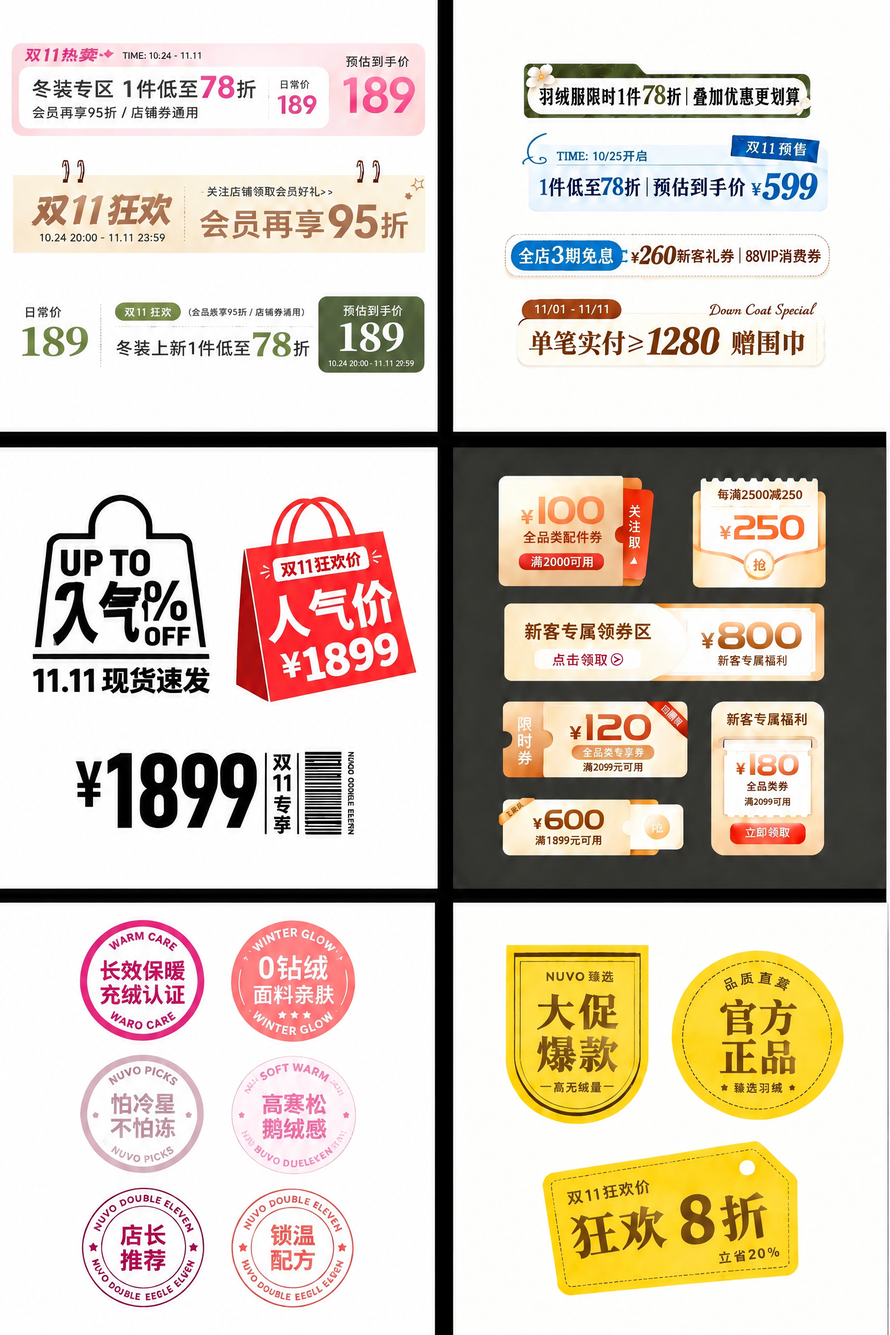
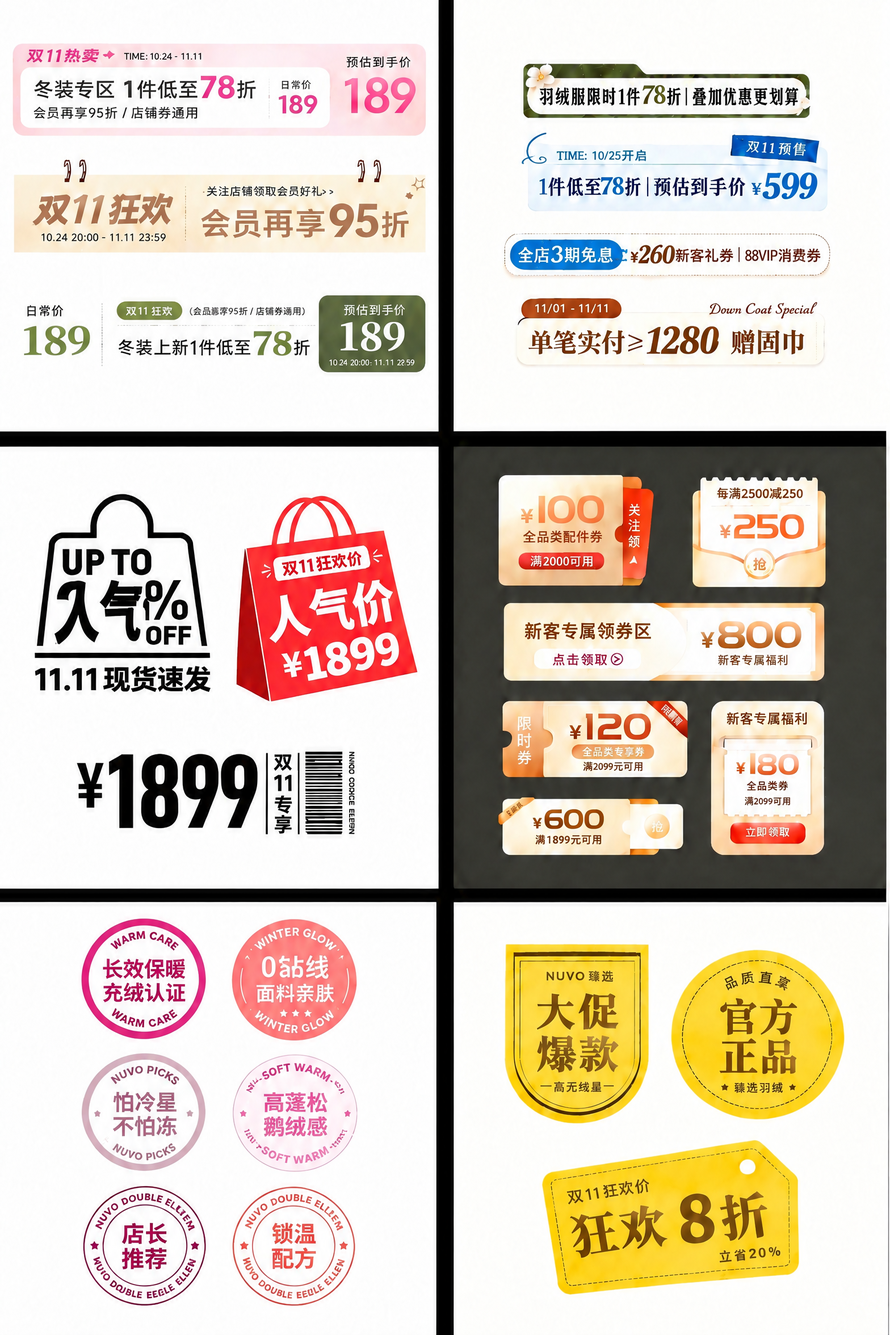
docs(#745): land EN-only targeted fix for gold 2K wash
Second pass ≈ $0.1035. WINTER GLOW and NUVO PICKS pass; WARM CARE and SOFT WARM stay fragmented.

diff --git a/docs/qa/745/WASH-NOTE-GOLD.md b/docs/qa/745/WASH-NOTE-GOLD.md
@@ -4,17 +4,20 @@
 - SoT：[#817](https://github.com/ganjmeng/ComfyArt/pull/817) `docs/design/673/PROMO01-REPLACE.md`（换 78 / 留 49）。本目录不改该文件。
 - tip≈25 作废，勿按它验。
 - 跑法：WaveSpeed `gpt-image-2.6-flare/edit` · 2k · 两段（A–E → F–H）。花费 ≈ $0.207。
-- 定点修补 ≈ $0.1035：`爆款价`→`人气价`，以及 EN 印章。账见 [`fix-ledger.json`](fix-ledger.json)。
-- 抽查：`78折` / `羽绒服` / `怕冷星` **PASS**；`爆款价`→`人气价` **PASS**。英文 SoT **PARTIAL**（`NUVO PICKS` 可读；`WARM CARE` / `WINTER GLOW` / `SOFT WARM` 碎裂）。
-- 请产品 / QA 看英文，并看 L/R。核对 78 处对齐，KEEP 无回退。不关闭 #745。
+- 第一次定点修补 ≈ $0.1035：`爆款价`→`人气价`，以及 EN 印章。账见 [`fix-ledger.json`](fix-ledger.json)。`人气价` 仍 **PASS**。
+- 第二次定点只修英文 ≈ $0.1035。账见 [`enfix-ledger.json`](enfix-ledger.json)。
+- 英文：`WINTER GLOW` + `NUVO PICKS` **PASS**；`WARM CARE` / `SOFT WARM` 仍碎裂（OCR 见 `CARE|WARM`）；`BOUBLE` / `ELVEN` 已消失。
+- 请产品看英文残留是 **ACCEPT**，还是再开一轮。核对 78 处对齐，KEEP 无回退。不关闭 #745。
 
 | 文件 | 角色 |
 |---|---|
-| [`docs/design/673/wash/promo-ecommerce/examples/01-washed-gold-2k.webp`](../../design/673/wash/promo-ecommerce/examples/01-washed-gold-2k.webp) | 修补后终图 1568×2352 |
-| [`LR-gold-vs-washed.jpg`](LR-gold-vs-washed.jpg) | 金标左 \| 修补后右 |
+| [`docs/design/673/wash/promo-ecommerce/examples/01-washed-gold-2k.webp`](../../design/673/wash/promo-ecommerce/examples/01-washed-gold-2k.webp) | EN 修补后终图 1568×2352 |
+| [`LR-gold-vs-washed.jpg`](LR-gold-vs-washed.jpg) | 金标左 \| 当前右 |
 | [`LR-fix-D.jpg`](LR-fix-D.jpg) | D 区修补对照（人气价） |
-| [`LR-fix-FH.jpg`](LR-fix-FH.jpg) | F–H 英文印章对照 |
+| [`LR-fix-FH.jpg`](LR-fix-FH.jpg) | 第一次 F–H 英文对照 |
+| [`LR-enfix-FH.jpg`](LR-enfix-FH.jpg) | 第二次 EN-only F–H 对照 |
 | [`pass1-AE-gold.webp`](pass1-AE-gold.webp) | 第 1 段 A–E，1568×2352 |
 | [`wash-ledger-gold.json`](wash-ledger-gold.json) | 两段账 |
-| [`fix-ledger.json`](fix-ledger.json) | 定点修补账 |
+| [`fix-ledger.json`](fix-ledger.json) | 第一次定点账 |
+| [`enfix-ledger.json`](enfix-ledger.json) | EN-only 账 |
 | [`ocr_spots-gold.json`](ocr_spots-gold.json) | 修补前 OCR 抽点 |
